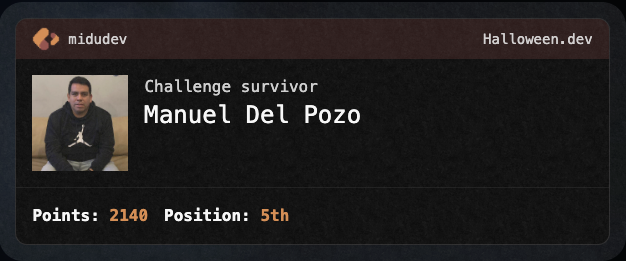
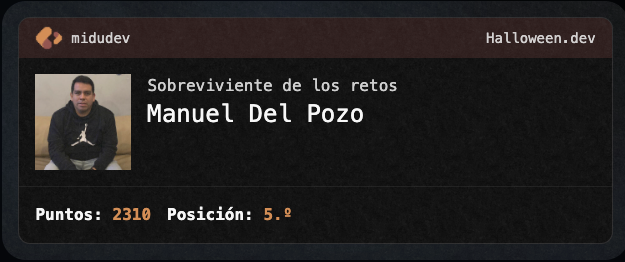
🛌 Escape from Freddy's nightmare

diff --git a/challenges/challenge03.js b/challenges/challenge03.js
@@ -1,11 +1,15 @@
 function findSafestPath(dream) {
-  let i = 0
+  let i = 0, j
+
   for (const row of dream) {
     row[0] += dream[i - 1]?.[0] | 0
-    for(let j = 1; j < row.length; j++) {
-      row[j] += Math.min(row[j - 1], dream[i - 1]?.[j] || Infinity)
+    j = 1
+    const [, ...rest] = row
+    for (const _ of rest) {
+      row[j] += Math.min(row[j - 1], dream[i - 1]?.[j] ?? Infinity)
+      j++
     }
     i++
   }
-  return dream[i - 1][dream[0].length - 1]
+  return dream[i - 1][j - 1]
 }

diff --git a/README.md b/README.md
@@ -28,6 +28,6 @@ In the final section, you'll find solutions to the challenges. However, before d
 | :-: | :-------------------------------------------------------------------------- | :---- | :---: | :--------------------------: |
 | 01  | 🧙♀ [Create the perfect potion](https://www.halloween.dev/retos/2024/1)      | <img src="/assets/difficult.png" widht="20" height="20" />     | 470   | [code](/challenges/challenge01.js) |
 | 02  | 🧟 [Zombie horde](https://www.halloween.dev/retos/2024/2)                   | <img src="/assets/difficult.png" widht="20" height="20" />     | 570   | [code](/challenges/challenge02.js) |
-| 03  | 🛌 [Escape from Freddy's nightmare](https://www.halloween.dev/retos/2024/3) | <img src="/assets/difficult.png" widht="20" height="20" /> <img src="/assets/difficult.png" widht="20" height="20" /> | 460   | [code](/challenges/challenge03.js) |
+| 03  | 🛌 [Escape from Freddy's nightmare](https://www.halloween.dev/retos/2024/3) | <img src="/assets/difficult.png" widht="20" height="20" /> <img src="/assets/difficult.png" widht="20" height="20" /> | 470   | [code](/challenges/challenge03.js) |
 | 04  | 🔪 [Find the killer](https://www.halloween.dev/retos/2024/4)                | <img src="/assets/difficult.png" widht="20" height="20" /> <img src="/assets/difficult.png" widht="20" height="20" /> | 470   | [code](/challenges/challenge04.js) |
 | 05  | ▲  [Terror on Pyramid Head](https://www.halloween.dev/retos/2024/5)      | <img src="/assets/difficult.png" widht="20" height="20" /> <img src="/assets/difficult.png" widht="20" height="20" /> <img src="/assets/difficult.png" widht="20" height="20" />    | 330   | [code](/challenges/challenge05.js) |
